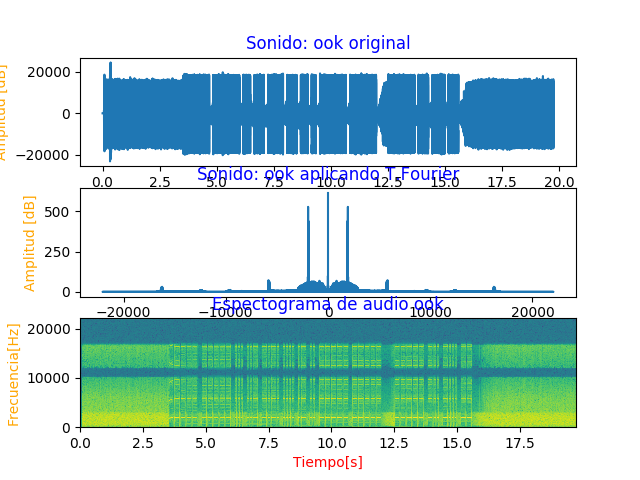
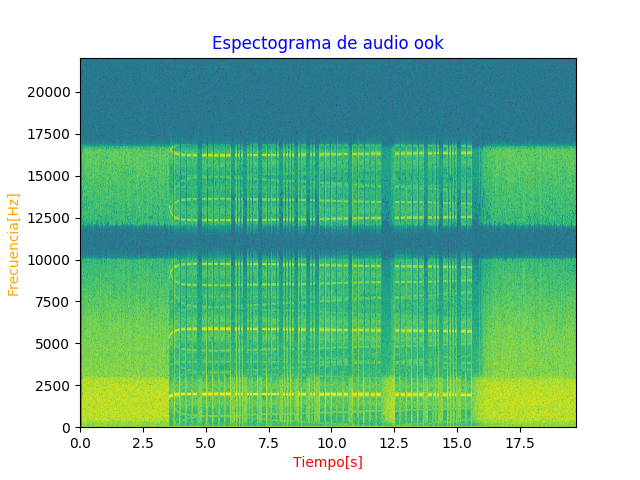
adding new graphics

diff --git a/Models/graphic.py b/Models/graphic.py
@@ -189,6 +189,28 @@ class Graphic:
     # - PARAMS:
     # - OUT:
 
+    def SingleGraphics(self, originalAudio, low_cutoff, high_cutoff, order):
+        self.timeGraphic(originalAudio.data_array, originalAudio.duration, originalAudio.audio_name)
+        plt.show()
+        originalAudio.informationNumpyFourier, fourierT = self.frequencyGraphic(originalAudio.data_array, originalAudio.sampling_rate, originalAudio.audio_name)
+        plt.show()
+        self.lowpassFilteredGraphic(originalAudio, low_cutoff, order)
+        plt.show()
+        #self.bandpassFilteredGraphic(originalAudio, low_cutoff, high_cutoff, order)
+        #plt.show()
+        self.spectrogramGraphic(originalAudio)
+        plt.show()
+        self.filteredSpectrogramGraphic(originalAudio, low_cutoff, order)
+        plt.show()
+        self.inverseGraphic(originalAudio.sampling_rate, fourierT, originalAudio.audio_name)
+        plt.show()
+
+    # /////////////////////////////////////////////////////////////////////////////////////////////////////////////////////////////////////////////////////////////////////////
+    # - NAME: createGraphics
+    # - DESCRIPTION: Genera todos los graficos de manera conjunta
+    # - PARAMS:
+    # - OUT:
+
     def createGraphics(self, originalAudio, low_cutoff, high_cutoff, order):
 
         self.generateGraphics1(originalAudio,low_cutoff,order,"Conjunto_1")
@@ -196,5 +218,7 @@ class Graphic:
         fourierT = self.generateGraphics2(originalAudio,"Conjunto_2")
 
         self.generateGraphics3(originalAudio,low_cutoff,order,fourierT,"Conjunto_3")
+
+        self.SingleGraphics(originalAudio,low_cutoff,high_cutoff,order)
 
     # /////////////////////////////////////////////////////////////////////////////////////////////////////////////////////////////////////////////////////////////////////////
